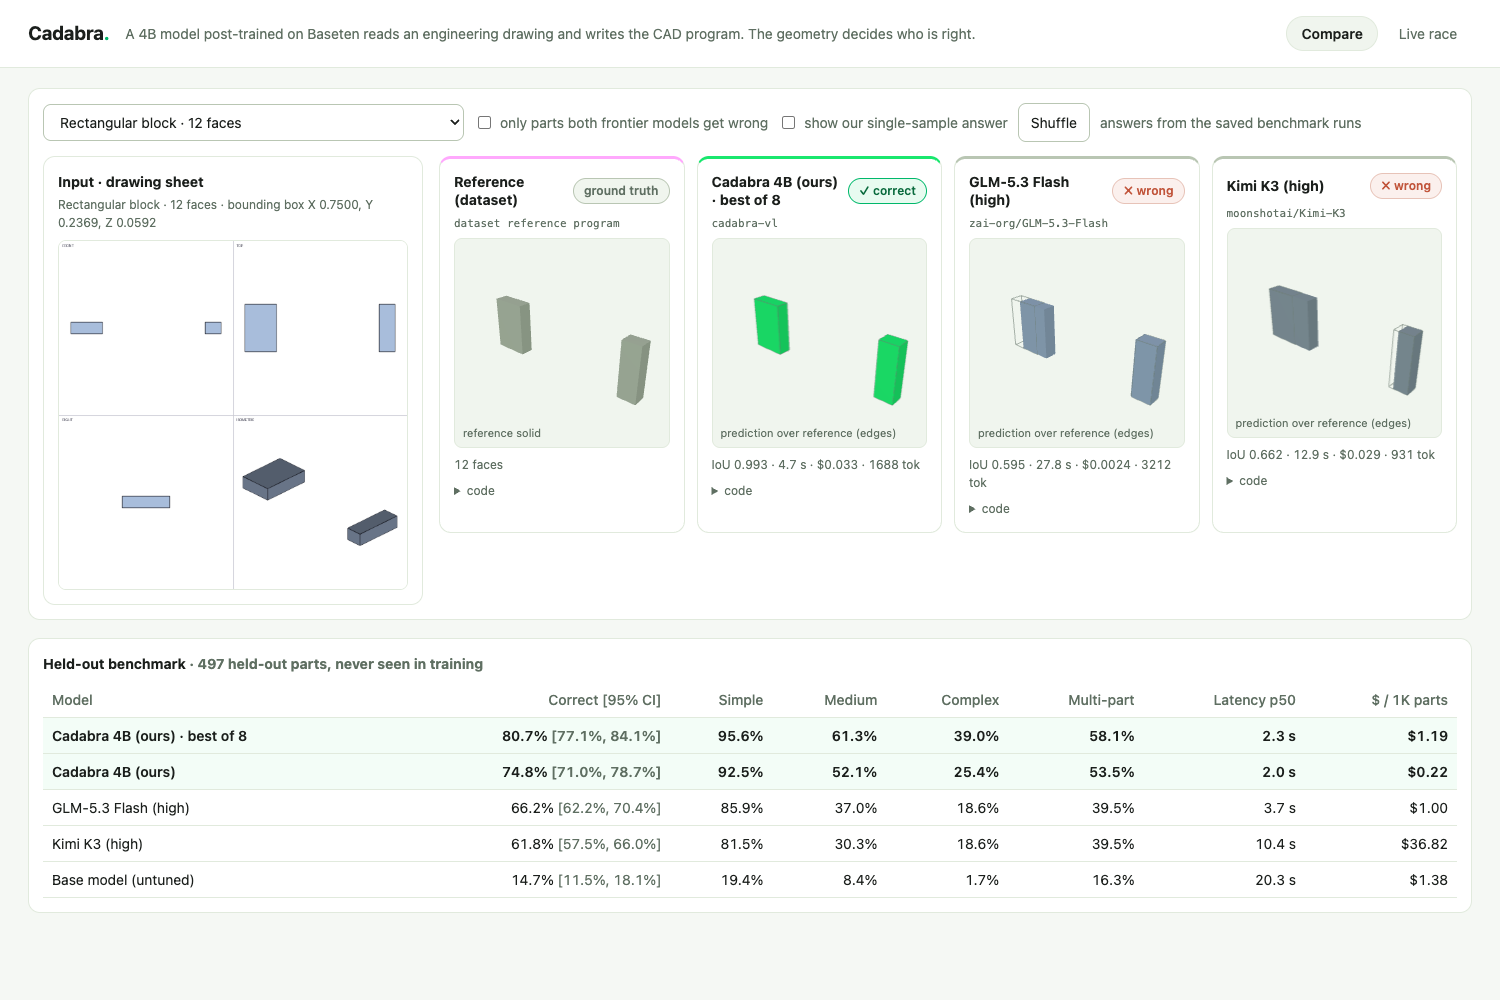
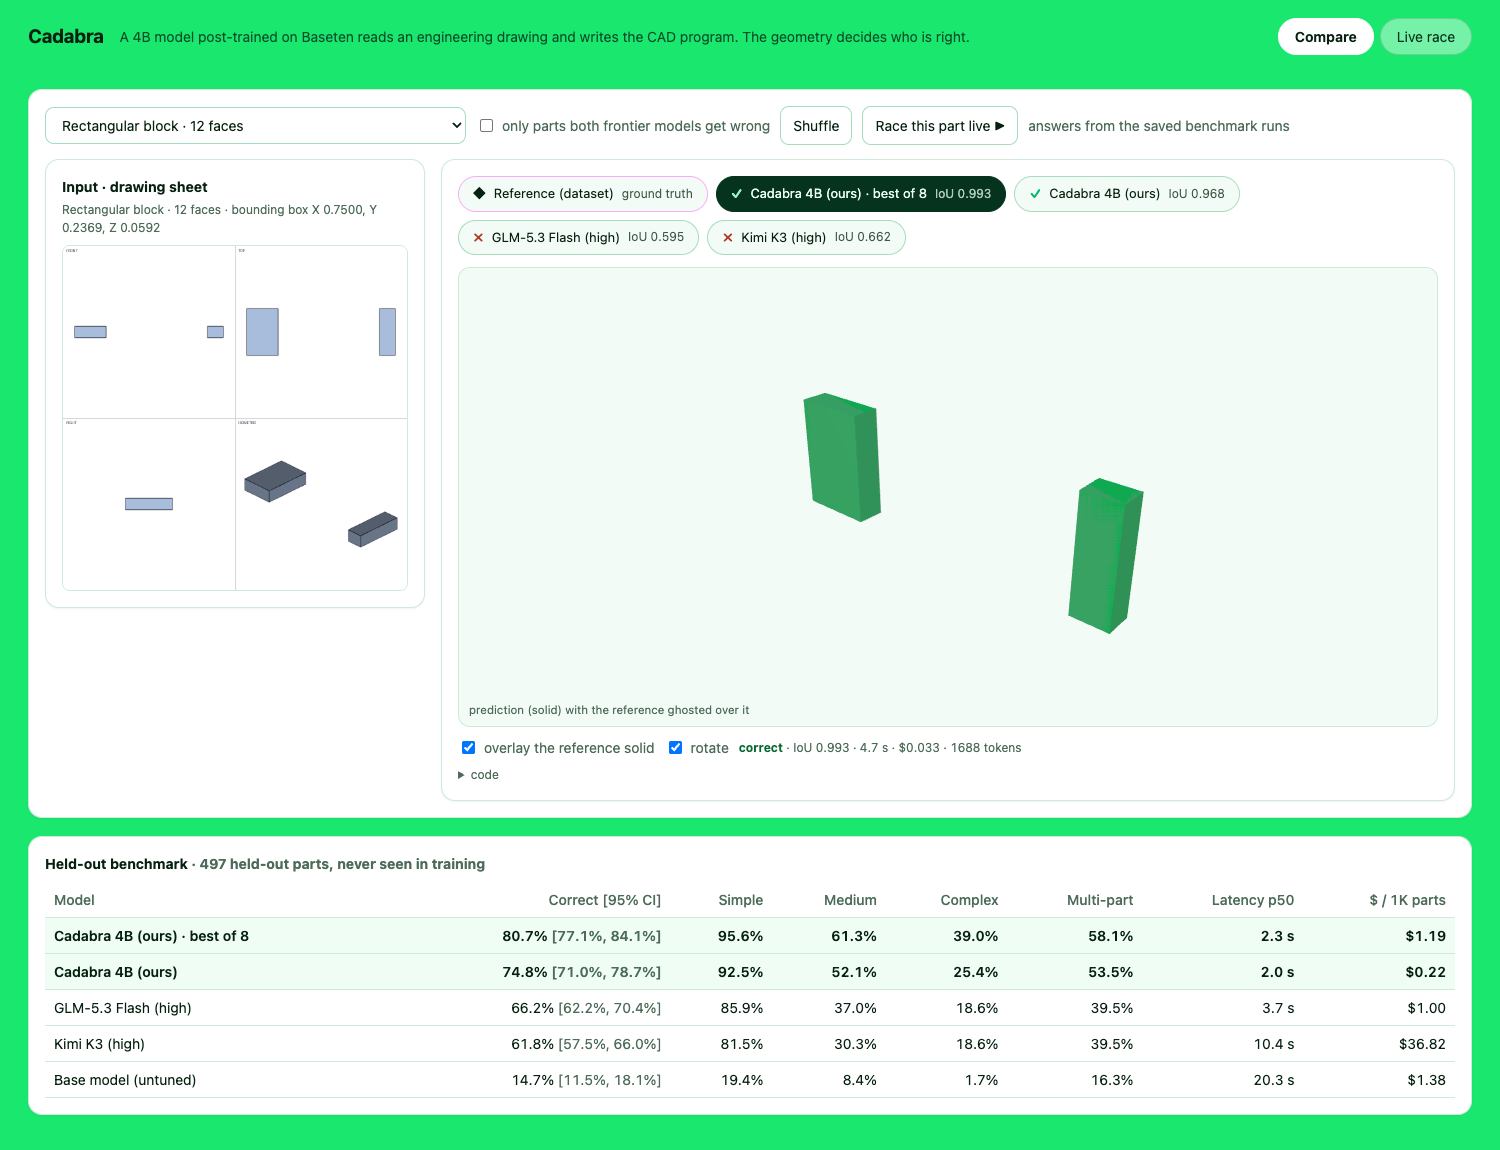
Demo: one main viewer with model chips, reference-overlay toggle, Baseten-green theme; race always has a part selected
Compare now shows one large stage and chips (reference, ours best-of-8, ours 1-sample, each frontier model) with their
verdict and IoU; the reference can be ghosted over any answer to see where it differs. URL params ?part=, ?model=, ?tab=.
The race preselects a part, can be started from Compare, and reports failures instead of doing nothing.

diff --git a/app/static/index.html b/app/static/index.html
@@ -6,45 +6,58 @@
 <title>Cadabra</title>
 <style>
   :root {
-    --bg: #F5F8F4; --surface: #FFFFFF; --inset: #F0F5EE; --line: #E1EADD; --line-2: #B9C6B3;
-    --ink: #1B1F1C; --muted: #5F6F62; --accent: #19E76E; --accent-deep: #00B86B; --pink: #FFA9FD;
-    --bad: #C1553B; --sage: #A4B09F;
+    --green: #19E76E; --green-deep: #00B86B; --green-dark: #06331D;
+    --card: #FFFFFF; --inset: #F2FBF5; --line: #CDEBD9; --line-2: #A7DCBE;
+    --ink: #06210F; --muted: #4C6B58; --pink: #FFA9FD; --bad: #B03A24;
   }
   * { box-sizing: border-box; }
-  body { margin: 0; background: var(--bg); color: var(--ink); font: 14px/1.5 ui-sans-serif, system-ui, -apple-system, "Segoe UI", Roboto, sans-serif; }
-  header { padding: 16px 28px; border-bottom: 1px solid var(--line); display: flex; align-items: center; gap: 16px; flex-wrap: wrap; background: var(--surface); }
+  body { margin: 0; background: var(--green); color: var(--ink); font: 14px/1.5 ui-sans-serif, system-ui, -apple-system, "Segoe UI", Roboto, sans-serif; }
+  header { padding: 18px 28px 14px; display: flex; align-items: center; gap: 16px; flex-wrap: wrap; }
   h1 { margin: 0; font-size: 19px; letter-spacing: -.01em; }
-  h1 .dot { color: var(--accent-deep); }
+  .tag { color: var(--green-dark); opacity: .85; }
   .muted { color: var(--muted); }
   nav { margin-left: auto; display: flex; gap: 6px; }
-  nav button { background: transparent; border: 1px solid transparent; color: var(--muted); border-radius: 999px; padding: 6px 14px; }
-  nav button.on { background: var(--inset); border-color: var(--line); color: var(--ink); font-weight: 600; }
+  nav button { background: rgba(255,255,255,.4); border: 1px solid rgba(6,51,29,.16); color: var(--green-dark); border-radius: 999px; padding: 7px 16px; }
+  nav button.on { background: var(--card); border-color: var(--card); color: var(--ink); font-weight: 650; }
   main { padding: 20px 28px 48px; display: grid; gap: 18px; max-width: 1500px; }
   .bar { display: flex; gap: 10px; align-items: center; flex-wrap: wrap; }
-  select, button, textarea { font: inherit; color: var(--ink); background: var(--surface); border: 1px solid var(--line-2); border-radius: 8px; padding: 8px 12px; }
+  select, button, textarea { font: inherit; color: var(--ink); background: var(--card); border: 1px solid var(--line-2); border-radius: 9px; padding: 8px 12px; }
   button { cursor: pointer; }
   button:hover { border-color: var(--accent-deep); }
-  button.primary { background: var(--accent); border-color: var(--accent-deep); font-weight: 600; }
+  button.primary { background: var(--green-dark); border-color: var(--green-dark); color: #E9FFF2; font-weight: 600; }
   button:disabled { opacity: .55; cursor: default; }
   textarea { width: 100%; min-height: 120px; font: 12px/1.45 ui-monospace, SFMono-Regular, Menlo, monospace; resize: vertical; }
   label.check { display: inline-flex; align-items: center; gap: 6px; color: var(--muted); }
-  .card { background: var(--surface); border: 1px solid var(--line); border-radius: 12px; padding: 14px; min-width: 0; }
+  .card { background: var(--card); border: 1px solid var(--line); border-radius: 14px; padding: 16px; min-width: 0; box-shadow: 0 1px 2px rgba(6,51,29,.06); }
   .card h2, .card h3 { margin: 0; font-size: 14px; }
   .split { display: grid; grid-template-columns: minmax(280px, 380px) minmax(0, 1fr); gap: 16px; align-items: start; }
   @media (max-width: 980px) { .split { grid-template-columns: 1fr; } }
   .sheet img { width: 100%; border: 1px solid var(--line); border-radius: 8px; background: #fff; display: block; }
   .cards { display: grid; grid-template-columns: repeat(auto-fit, minmax(215px, 1fr)); gap: 12px; }
   .cards .card { display: grid; gap: 8px; align-content: start; border-top: 3px solid var(--line-2); }
-  .card.ours { border-top-color: var(--accent); }
+  .cards .card.ours { border-top-color: var(--green); }
   .card.truth { border-top-color: var(--pink); }
   .head { display: flex; justify-content: space-between; align-items: center; gap: 8px; }
   .head h3 { line-height: 1.3; }
-  .viewer { height: 210px; border-radius: 8px; background: var(--inset); border: 1px solid var(--line); overflow: hidden; position: relative; }
+  .chips { display: flex; gap: 8px; flex-wrap: wrap; }
+  .chip { display: inline-flex; align-items: center; gap: 8px; border: 1px solid var(--line-2); background: var(--inset); border-radius: 999px; padding: 7px 14px; font-size: 13px; color: var(--ink); }
+  .chip .mark { font-weight: 700; }
+  .chip.ok .mark { color: var(--green-deep); }
+  .chip.no .mark { color: var(--bad); }
+  .chip.truth { border-color: var(--pink); }
+  .chip.on { background: var(--green-dark); border-color: var(--green-dark); color: #EAFFF2; }
+  .chip.on .mark { color: #9CF3C2; }
+  .chip.on.no .mark { color: #FFB7A3; }
+  .chip .iou { font-variant-numeric: tabular-nums; opacity: .75; font-size: 12px; }
+  .stage { height: 460px; border-radius: 12px; background: var(--inset); border: 1px solid var(--line); overflow: hidden; position: relative; margin-top: 12px; }
+  .stage canvas { display: block; width: 100%; height: 100%; }
+  .stage .hint { position: absolute; left: 10px; bottom: 8px; font-size: 11.5px; color: var(--muted); pointer-events: none; }
+  .viewer { height: 190px; border-radius: 8px; background: var(--inset); border: 1px solid var(--line); overflow: hidden; position: relative; }
   .viewer canvas { display: block; width: 100%; height: 100%; }
   .viewer .hint { position: absolute; left: 8px; bottom: 6px; font-size: 11px; color: var(--muted); pointer-events: none; }
   .pill { display: inline-block; white-space: nowrap; font-size: 12px; font-weight: 600; padding: 3px 10px; border-radius: 999px; border: 1px solid var(--line-2); color: var(--muted); background: var(--inset); }
-  .pill.ok { color: #0a6b3d; border-color: var(--accent-deep); background: #E8FBF0; }
-  .pill.no { color: var(--bad); border-color: #E7C3B8; background: #FBF0ED; }
+  .pill.ok { color: #06682F; border-color: var(--green-deep); background: #E4FCEE; }
+  .pill.no { color: var(--bad); border-color: #E8C4B9; background: #FDF1EE; }
   .stats { font-size: 12px; color: var(--muted); font-variant-numeric: tabular-nums; }
   .slug { font: 11px ui-monospace, Menlo, monospace; color: var(--muted); overflow-wrap: anywhere; }
   .meters { display: grid; grid-template-columns: repeat(4, 1fr); gap: 6px; }
@@ -57,15 +70,15 @@
   th, td { padding: 7px 9px; border-bottom: 1px solid var(--line); text-align: right; white-space: nowrap; }
   th:first-child, td:first-child { text-align: left; }
   th { color: var(--muted); font-weight: 500; }
-  tr.ours td { background: #F3FDF7; font-weight: 600; }
+  tr.ours td { background: #EFFDF4; font-weight: 600; }
   .scroll { overflow-x: auto; }
   [hidden] { display: none !important; }
 </style>
 </head>
 <body>
 <header>
-  <h1>Cadabra<span class="dot">.</span></h1>
-  <span class="muted">A 4B model post-trained on Baseten reads an engineering drawing and writes the CAD program. The geometry decides who is right.</span>
+  <h1>Cadabra</h1>
+  <span class="tag">A 4B model post-trained on Baseten reads an engineering drawing and writes the CAD program. The geometry decides who is right.</span>
   <nav>
     <button id="tab-compare" class="on">Compare</button>
     <button id="tab-race">Live race</button>
@@ -77,8 +90,8 @@
     <div class="bar">
       <select id="parts"></select>
       <label class="check"><input type="checkbox" id="onlywins"> only parts both frontier models get wrong</label>
-      <label class="check"><input type="checkbox" id="single"> show our single-sample answer</label>
       <button id="shuffle">Shuffle</button>
+      <button id="raceThis">Race this part live ▶</button>
       <span class="muted" id="partnote"></span>
     </div>
     <div class="split" style="margin-top:14px">
@@ -87,13 +100,22 @@
         <div class="muted" style="font-size:12px;margin:4px 0 8px" id="bboxline"></div>
         <img id="sheet" alt="drawing sheet">
       </div>
-      <div class="cards" id="results"></div>
+      <div class="card">
+        <div class="chips" id="chips"></div>
+        <div class="stage" id="stage"><span class="hint" id="stagehint"></span></div>
+        <div class="bar" style="margin-top:10px">
+          <label class="check"><input type="checkbox" id="overlay" checked> overlay the reference solid</label>
+          <label class="check"><input type="checkbox" id="spin" checked> rotate</label>
+          <span class="stats" id="stagestats"></span>
+        </div>
+        <details style="margin-top:8px"><summary>code</summary><pre id="stagecode"></pre></details>
+      </div>
     </div>
   </section>
 
   <section id="race" class="card" hidden>
     <div class="bar">
-      <select id="examples"><option value="">Held-out part…</option></select>
+      <select id="examples"></select>
       <select id="modality"><option value="image">Input: drawing sheet</option><option value="text">Input: written spec</option></select>
       <button id="go" class="primary">Run ▶</button>
       <span class="muted" id="note"></span>
@@ -127,7 +149,7 @@ const num = (x, d = 1) => (x == null ? "–" : Number(x).toFixed(d));
 const pct = (x) => (x == null ? "–" : (100 * x).toFixed(1) + "%");
 const money = (x) => (x == null ? "–" : "$" + (x < 0.01 ? x.toFixed(4) : x.toFixed(3)));
 const loader = new STLLoader();
-const OURS = 0x19e76e, TRUTH = 0xa4b09f, RIVALS = [0x7f8f9a, 0xb0b8ae, 0x8aa0b8];
+const OURS = 0x10b85a, TRUTH = 0x8a9a8e, RIVALS = [0x60758a, 0x93a08f, 0x7d8fa8];
 
 class Viewer {
   constructor(el, color) {
@@ -179,16 +201,24 @@ class Viewer {
     this.group.add(this.part);
     this.fit();
   }
-  async setTarget(key, solid = false) {
+  /* mode: "ghost" (translucent reference over the prediction), "edges", "solid", or null to remove */
+  async setTarget(key, mode = "edges") {
     if (!this.renderer) return;
+    this.drop(this.target); this.target = null;
+    if (!key || !mode) { this.fit(); return; }
     const g = await this.geometry(key);
-    this.drop(this.target);
-    this.target = solid
-      ? new THREE.Mesh(g, new THREE.MeshStandardMaterial({ color: TRUTH, metalness: 0.05, roughness: 0.6 }))
-      : new THREE.LineSegments(new THREE.EdgesGeometry(g, 20), new THREE.LineBasicMaterial({ color: 0x6b7a6e, transparent: true, opacity: 0.55 }));
+    if (mode === "edges") {
+      this.target = new THREE.LineSegments(new THREE.EdgesGeometry(g, 20), new THREE.LineBasicMaterial({ color: 0x51695a, transparent: true, opacity: 0.6 }));
+    } else {
+      this.target = new THREE.Mesh(g, new THREE.MeshStandardMaterial({
+        color: TRUTH, metalness: 0.05, roughness: 0.65, transparent: mode === "ghost", opacity: mode === "ghost" ? 0.34 : 1,
+        depthWrite: mode !== "ghost", side: THREE.DoubleSide,
+      }));
+    }
     this.group.add(this.target);
     this.fit();
   }
+  spin(on) { if (this.controls) this.controls.autoRotate = on; }
   clear() { if (!this.renderer) return; this.drop(this.part); this.drop(this.target); this.part = this.target = null; }
   fit() {
     if (!this.renderer) return;
@@ -210,17 +240,18 @@ function showTab(name) {
     $("#" + other).hidden = other !== name;
     $("#tab-" + other).classList.toggle("on", other === name);
   }
-  Object.values(compareViewers).concat(Object.values(viewers)).forEach((v) => v.resize());
+  [stage, targetViewer, ...Object.values(viewers)].forEach((v) => v && v.resize());
 }
 for (const name of ["compare", "race"]) $("#tab-" + name).onclick = () => showTab(name);
 
-/* ---------- compare: saved answers, built and shown side by side ---------- */
-let PARTS = [], compareViewers = {};
+/* ---------- compare: one stage, chips pick whose answer it shows ---------- */
+let PARTS = [], DATA = null, picked = 1;
+const stage = new Viewer($("#stage"), OURS);
 
 async function loadParts() {
   PARTS = await (await fetch("/api/parts")).json();
   fillParts();
-  if (PARTS.length) showPart(new URLSearchParams(location.search).get("part") || pickDefault());
+  if (PARTS.length) await showPart(new URLSearchParams(location.search).get("part") || pickDefault());
 }
 
 function fillParts() {
@@ -239,45 +270,66 @@ function pickDefault() {
   return (wins[0] || PARTS[0]).id;
 }
 
+function entries() {
+  return [{ ...DATA.reference, truth: true, label: "Reference (dataset)" }, ...DATA.lanes];
+}
+
+function drawChips() {
+  $("#chips").innerHTML = entries().map((c, i) => {
+    const state = c.truth ? "truth" : c.success ? "ok" : "no";
+    const mark = c.truth ? "◆" : c.success ? "✓" : "✗";
+    const note = c.truth ? "ground truth" : c.iou_aligned == null ? "no solid" : "IoU " + c.iou_aligned.toFixed(3);
+    return `<button class="chip ${state} ${i === picked ? "on" : ""}" data-i="${i}">
+      <span class="mark">${mark}</span> ${esc(c.label)} <span class="iou">${note}</span></button>`;
+  }).join("");
+  $("#chips").querySelectorAll("[data-i]").forEach((b) => (b.onclick = () => select(+b.dataset.i)));
+}
+
+async function select(i) {
+  picked = i;
+  const c = entries()[i];
+  drawChips();
+  stage.clear();
+  const overlay = $("#overlay").checked;
+  $("#stagehint").textContent = c.truth ? "the dataset's reference solid"
+    : overlay ? "prediction (solid) with the reference ghosted over it" : "prediction only";
+  $("#stagestats").innerHTML = c.truth
+    ? `${c.stats ? c.stats.n_faces + " faces · the answer every model is scored against" : ""}`
+    : `${c.success ? '<b style="color:#06682F">correct</b>' : '<b style="color:#B03A24">wrong</b>'} · IoU ${c.iou_aligned == null ? "–" : c.iou_aligned.toFixed(3)}` +
+      ` · ${num(c.e2e_s, 1)} s · ${money(c.cost_usd)} · ${c.output_tokens ?? "–"} tokens` +
+      (c.mesh ? "" : " · " + esc((c.error || "did not build").slice(0, 70)));
+  $("#stagecode").textContent = c.code || "";
+  if (c.truth) { if (c.mesh) await stage.setPart(c.mesh, TRUTH); return; }
+  if (c.mesh) await stage.setPart(c.mesh, c.ours ? OURS : RIVALS[0]);
+  if (overlay && DATA.reference.mesh) await stage.setTarget(DATA.reference.mesh, c.mesh ? "ghost" : "solid");
+}
+
 async function showPart(id) {
   $("#parts").value = id;
   $("#partnote").textContent = "building…";
-  const d = await (await fetch(`/api/compare/${encodeURIComponent(id)}`)).json();
-  $("#sheet").src = d.sheet;
-  const b = d.bbox;
-  $("#bboxline").textContent = `${d.title} · ${d.tier_faces} faces${d.n_parts > 1 ? ", " + d.n_parts + " parts" : ""}` +
+  DATA = await (await fetch(`/api/compare/${encodeURIComponent(id)}`)).json();
+  $("#sheet").src = DATA.sheet;
+  const b = DATA.bbox;
+  $("#bboxline").textContent = `${DATA.title} · ${DATA.tier_faces} faces${DATA.n_parts > 1 ? ", " + DATA.n_parts + " parts" : ""}` +
     (b ? ` · bounding box X ${b[0].toFixed(4)}, Y ${b[1].toFixed(4)}, Z ${b[2].toFixed(4)}` : "");
   $("#partnote").textContent = "answers from the saved benchmark runs";
-  compareViewers = {};
-  const lanes = d.lanes.filter((l) => !(l.ours && l.best_of === 1) || $("#single").checked);
-  const cards = [{ ...d.reference, key: "reference", truth: true }, ...lanes];
-  $("#results").innerHTML = cards.map((c, i) => `
-    <div class="card ${c.truth ? "truth" : c.ours ? "ours" : ""}">
-      <div class="head"><h3>${esc(c.label)}</h3>${c.truth ? '<span class="pill">ground truth</span>'
-        : `<span class="pill ${c.success ? "ok" : "no"}">${c.success ? "✓ correct" : "✗ wrong"}</span>`}</div>
-      <div class="slug">${esc(c.model || "dataset reference program")}</div>
-      <div class="viewer" data-v="${i}">${c.truth ? '<span class="hint">reference solid</span>' : '<span class="hint">prediction over reference (edges)</span>'}</div>
-      <div class="stats">${c.truth ? `${c.stats ? c.stats.n_faces + " faces" : ""}`
-        : `IoU ${c.iou_aligned == null ? "–" : c.iou_aligned.toFixed(3)} · ${num(c.e2e_s, 1)} s · ${money(c.cost_usd)} · ${c.output_tokens ?? "–"} tok`}</div>
-      ${c.truth || c.mesh ? "" : `<div class="stats">${esc((c.error || "did not build").slice(0, 90))}</div>`}
-      <details><summary>code</summary><pre>${esc(c.code || "")}</pre></details>
-    </div>`).join("");
-  $("#results").querySelectorAll("[data-v]").forEach((el, i) => {
-    const c = cards[i];
-    const v = new Viewer(el, c.truth ? TRUTH : c.ours ? OURS : RIVALS[i % RIVALS.length]);
-    compareViewers[i] = v;
-    if (c.truth) { if (c.mesh) v.setPart(c.mesh, TRUTH); return; }
-    if (d.reference.mesh) v.setTarget(d.reference.mesh);
-    if (c.mesh) v.setPart(c.mesh);
-  });
+  const want = +(new URLSearchParams(location.search).get("model") ?? 1);
+  await select(Math.max(0, Math.min(Number.isFinite(want) ? want : 1, entries().length - 1)));
 }
 
 $("#parts").onchange = (e) => showPart(e.target.value);
-$("#single").onchange = () => showPart($("#parts").value);
 $("#onlywins").onchange = () => { fillParts(); showPart($("#parts").value || pickDefault()); };
+$("#overlay").onchange = () => select(picked);
+$("#spin").onchange = (e) => stage.spin(e.target.checked);
 $("#shuffle").onclick = () => {
   const opts = [...$("#parts").options];
   if (opts.length) showPart(opts[Math.floor(Math.random() * opts.length)].value);
+};
+$("#raceThis").onclick = () => {
+  if (!DATA) return;
+  useExample({ id: DATA.id, spec: DATA.spec, sheet: DATA.sheet, bbox: DATA.bbox, title: DATA.title });
+  showTab("race");
+  $("#go").click();
 };
 
 /* ---------- live race ---------- */
@@ -329,17 +381,26 @@ function showInput() {
   }
 }
 $("#modality").onchange = showInput;
-$("#examples").onchange = (e) => {
-  currentExample = EXAMPLES[e.target.value] || null;
-  if (currentExample) $("#spec").value = currentExample.spec;
+function useExample(x) {
+  currentExample = x;
+  if (![...$("#examples").options].some((o) => o.value === x.id)) {
+    $("#examples").add(new Option(x.title || x.id, x.id));
+    EXAMPLES.push(x);
+  }
+  $("#examples").value = x.id;
+  if (x.spec) $("#spec").value = x.spec;
   showInput();
+}
+$("#examples").onchange = (e) => {
+  const x = EXAMPLES.find((y) => y.id === e.target.value);
+  if (x) useExample(x);
 };
 
 async function handle(ev, state) {
   if (ev.type === "target") {
-    await targetViewer.setTarget(ev.mesh, true);
+    await targetViewer.setTarget(ev.mesh, "solid");
     $("#tstats").textContent = `· ${ev.stats.n_faces} faces`;
-    for (const k in viewers) viewers[k].setTarget(ev.mesh);
+    for (const k in viewers) viewers[k].setTarget(ev.mesh, "edges");
     return;
   }
   const s = state[ev.lane];
@@ -389,7 +450,7 @@ $("#go").onclick = async () => {
   const spec = $("#spec").value.trim();
   const image = $("#modality").value === "image";
   if (image && !(currentExample && currentExample.sheet)) { $("#note").textContent = "Pick a held-out part first."; return; }
-  if (!image && !spec) return;
+  if (!image && !spec) { $("#note").textContent = "Write a spec first."; return; }
   const state = {};
   targetViewer.clear();
   $("#tstats").textContent = "";
@@ -402,6 +463,7 @@ $("#go").onclick = async () => {
     viewers[l.key].clear();
   }
   $("#go").disabled = true;
+  $("#note").textContent = "racing…";
   const clock = setInterval(() => {
     for (const k in state) if (!state[k].done) setv(k, "e2e", ((performance.now() - state[k].t0) / 1000).toFixed(1));
   }, 100);
@@ -410,6 +472,7 @@ $("#go").onclick = async () => {
       method: "POST", headers: { "Content-Type": "application/json" },
       body: JSON.stringify({ spec, example_id: currentExample ? currentExample.id : null, modality: $("#modality").value }),
     });
+    if (!res.ok) { $("#note").textContent = "race failed: " + (await res.text()).slice(0, 120); return; }
     const reader = res.body.getReader();
     const decoder = new TextDecoder();
     let buf = "";
@@ -424,6 +487,7 @@ $("#go").onclick = async () => {
         if (chunk.startsWith("data: ")) await handle(JSON.parse(chunk.slice(6)), state);
       }
     }
+    $("#note").textContent = "done";
   } finally {
     clearInterval(clock);
     $("#go").disabled = false;
@@ -453,9 +517,8 @@ CONFIG = await (await fetch("/api/config")).json();
 $("#modality").value = CONFIG.default_modality || "image";
 buildLanes(CONFIG.lanes);
 EXAMPLES = await (await fetch("/api/examples")).json();
-EXAMPLES.forEach((e, i) => $("#examples").insertAdjacentHTML("beforeend",
-  `<option value="${i}">${esc(e.title)} · ${e.n_parts}-part, ${e.n_faces} faces</option>`));
-showInput();
+$("#examples").innerHTML = EXAMPLES.map((e) => `<option value="${esc(e.id)}">${esc(e.title)} · ${e.n_parts}-part, ${e.n_faces} faces</option>`).join("");
+if (EXAMPLES.length) useExample(EXAMPLES[0]); else showInput();
 await loadParts();
 loadScoreboard();
 if (new URLSearchParams(location.search).get("tab") === "race") showTab("race");
